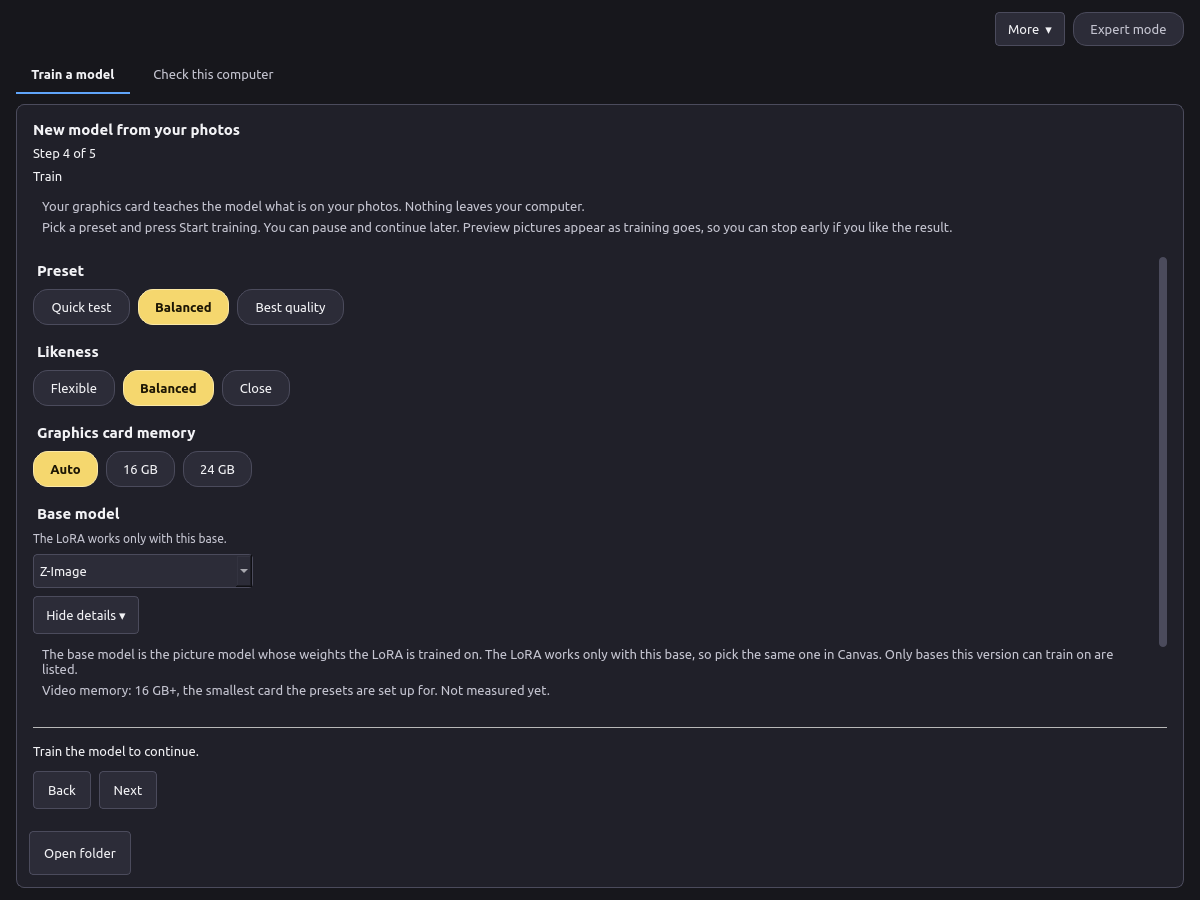
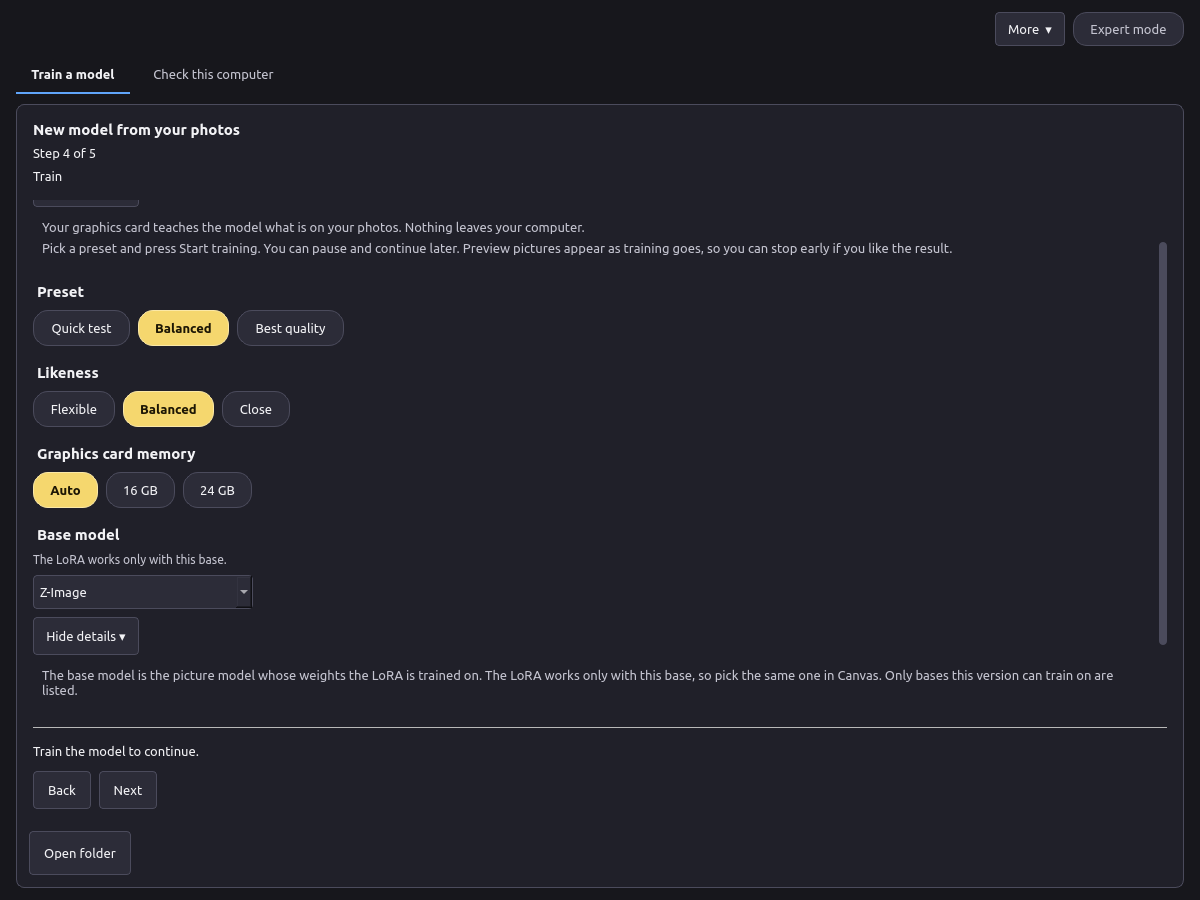
Forge GUI: no 'Not measured yet' in the base-model details; memory line only when measured
- memory_details() returns None while MEASURED_PEAK_GB has no figure, and the base Details then has
  no video memory line; the option tooltip drops its memory line too. A measured peak shows as before.
- forge.app.base.vram_tier.tip ('... Not measured yet.' / '... Ещё не измерено.') removed from both locales.
- Tests: no memory line until measured (Details and tooltip, EN/RU); the measured figure once set.
- Manual images with the Details open refreshed; guide rebuilt.

Changed region(s): [[0.0308, 0.2178, 0.925, 0.7778]]

diff --git a/tests/test_app_window.py b/tests/test_app_window.py
@@ -390,8 +390,8 @@ def test_base_picker_is_short_with_a_hint_and_only_trainable_bases(make_app, tmp
     assert combo.itemText(0) == "Z-Image" and combo.width() <= basepicker.MAX_WIDTH
     detail = combo.itemData(0, basepicker.DETAIL_ROLE)
     assert detail == f"{tr('forge.app.base.z-image.note')} · {tr('forge.app.base.vram_tier', gb=16)}"
-    assert "16" in detail and tr("forge.app.base.vram_tier.tip", vram=tr("forge.app.base.vram_tier", gb=16)) in (
-        combo.itemData(0, QtCore.Qt.ItemDataRole.ToolTipRole))
+    tip = combo.itemData(0, QtCore.Qt.ItemDataRole.ToolTipRole)
+    assert "16" in detail and tip.endswith(detail)  # no video memory line until it is measured
     hint = app.window.findChild(QtWidgets.QLabel, "forge.train.base.hint")
     assert hint is not None and hint.text() == tr("forge.app.base.hint") and hint.isVisibleTo(app.window)
 
@@ -400,8 +400,25 @@ def test_base_vram_uses_measured_peaks_only_when_present(monkeypatch) -> None:
     from voxprint_forge.app import basepicker
 
     assert basepicker.vram_text("z-image") == tr("forge.app.base.vram_tier", gb=16)
+    assert basepicker.memory_details() is None
+    assert basepicker.tooltip("z-image", "Z-Image", "repo", "Apache-2.0").endswith(basepicker.detail_line("z-image"))
     monkeypatch.setitem(basepicker.MEASURED_PEAK_GB, "z-image", {16: 14.5, 24: 19.0})
-    assert basepicker.vram_text("z-image") == tr("forge.app.base.vram_measured", gb="14.5")
+    measured = tr("forge.app.base.vram_measured", gb="14.5")
+    assert basepicker.vram_text("z-image") == measured
+    assert basepicker.memory_details() == tr("forge.app.base.vram_measured.tip", vram=measured)
+    assert basepicker.tooltip("z-image", "Z-Image", "repo", "Apache-2.0").endswith(
+        tr("forge.app.base.vram_measured.tip", vram=measured))
+
+
+@pytest.mark.parametrize("lang", ["en", "ru"])
+def test_base_details_have_no_memory_line_until_measured(make_app, tmp_path, lang) -> None:
+    from voxprint_forge.app.details import Details
+
+    app = _train(make_app, tmp_path, lang, False)
+    box = app.window.findChild(Details, "forge.details.train.base")
+    texts = [label.text() for label in box.body.findChildren(QtWidgets.QLabel)]
+    assert texts == [tr("forge.app.base.details")]
+    assert all(word not in text for text in texts for word in ("Not measured", "Ещё не измерено", "измерено"))
 
 
 def _train(make_app, tmp_path, lang, expert):

diff --git a/src/voxprint_forge/app/basepicker.py b/src/voxprint_forge/app/basepicker.py
@@ -14,8 +14,8 @@ from voxprint_forge.lora.presets import VRAM_TIERS
 
 # Peak training memory in GB per base and tier, from LORA-CALIB (``train16`` / ``train24`` peak_vram_gb).
 # TODO(lora-calib): LORA-CALIB has not produced training numbers yet (the 17 Oct run stopped at prepare).
-# Fill this from its summary.json, e.g. {"z-image": {16: <peak>, 24: <peak>}}; until then the picker
-# shows the preset tier ("16 GB+"), never a guessed figure.
+# Fill this from its summary.json, e.g. {"z-image": {16: <peak>, 24: <peak>}}; until then the list shows
+# the preset tier ("16 GB+"), never a guessed figure, and Details and the tooltip have no memory line.
 MEASURED_PEAK_GB: dict[str, dict[int, float]] = {}
 
 DETAIL_ROLE = QtCore.Qt.ItemDataRole.UserRole + 1
@@ -45,10 +45,10 @@ def vram_text(mdl_id: str) -> str:
     return tr("forge.app.base.vram_tier", gb=min(VRAM_TIERS))
 
 
-def memory_details() -> str:
-    """What the video memory figure in the list means (the preset tier, or measured peaks)."""
+def memory_details() -> str | None:
+    """The measured video memory sentence for Details, or None (no line at all) until calibration has run."""
     if not MEASURED_PEAK_GB:
-        return tr("forge.app.base.vram_tier.tip", vram=tr("forge.app.base.vram_tier", gb=min(VRAM_TIERS)))
+        return None
     return tr("forge.app.base.vram_measured.tip", vram=", ".join(vram_text(mdl_id) for mdl_id in MEASURED_PEAK_GB))
 
 
@@ -61,12 +61,10 @@ def detail_line(mdl_id: str) -> str:
 
 
 def tooltip(mdl_id: str, name: str, repo: str, licence: str) -> str:
-    """Full details for one option."""
-    measured = bool(MEASURED_PEAK_GB.get(mdl_id))
-    key = "forge.app.base.vram_measured.tip" if measured else "forge.app.base.vram_tier.tip"
-    memory = tr(key, vram=vram_text(mdl_id))
+    """Full details for one option; the video memory sentence only when it was measured."""
+    memory = tr("forge.app.base.vram_measured.tip", vram=vram_text(mdl_id)) if MEASURED_PEAK_GB.get(mdl_id) else ""
     return tr("forge.app.base.option.tip", name=name, repo=repo, licence=licence, detail=detail_line(mdl_id),
-              memory=memory)
+              memory=memory).rstrip()
 
 
 class TwoLineDelegate(QtWidgets.QStyledItemDelegate):

diff --git a/src/voxprint_forge/app/window.py b/src/voxprint_forge/app/window.py
@@ -620,7 +620,8 @@ class ForgeApp:
         base.currentIndexChanged.connect(lambda _i: self.simple.__setitem__("base", str(base.currentData() or "")))
         column.addWidget(basepicker.hint_label())
         column.addWidget(base, 0, QtCore.Qt.AlignmentFlag.AlignLeft)
-        column.addWidget(self._details("train.base", (tr("forge.app.base.details"), basepicker.memory_details())))
+        memory = basepicker.memory_details()
+        column.addWidget(self._details("train.base", (tr("forge.app.base.details"),) + ((memory,) if memory else ())))
         previews = QtWidgets.QCheckBox(tr("forge.app.previews.label"))
         previews.setToolTip(tr("lora.previews.tip"))
         previews.setChecked(self.previews)
